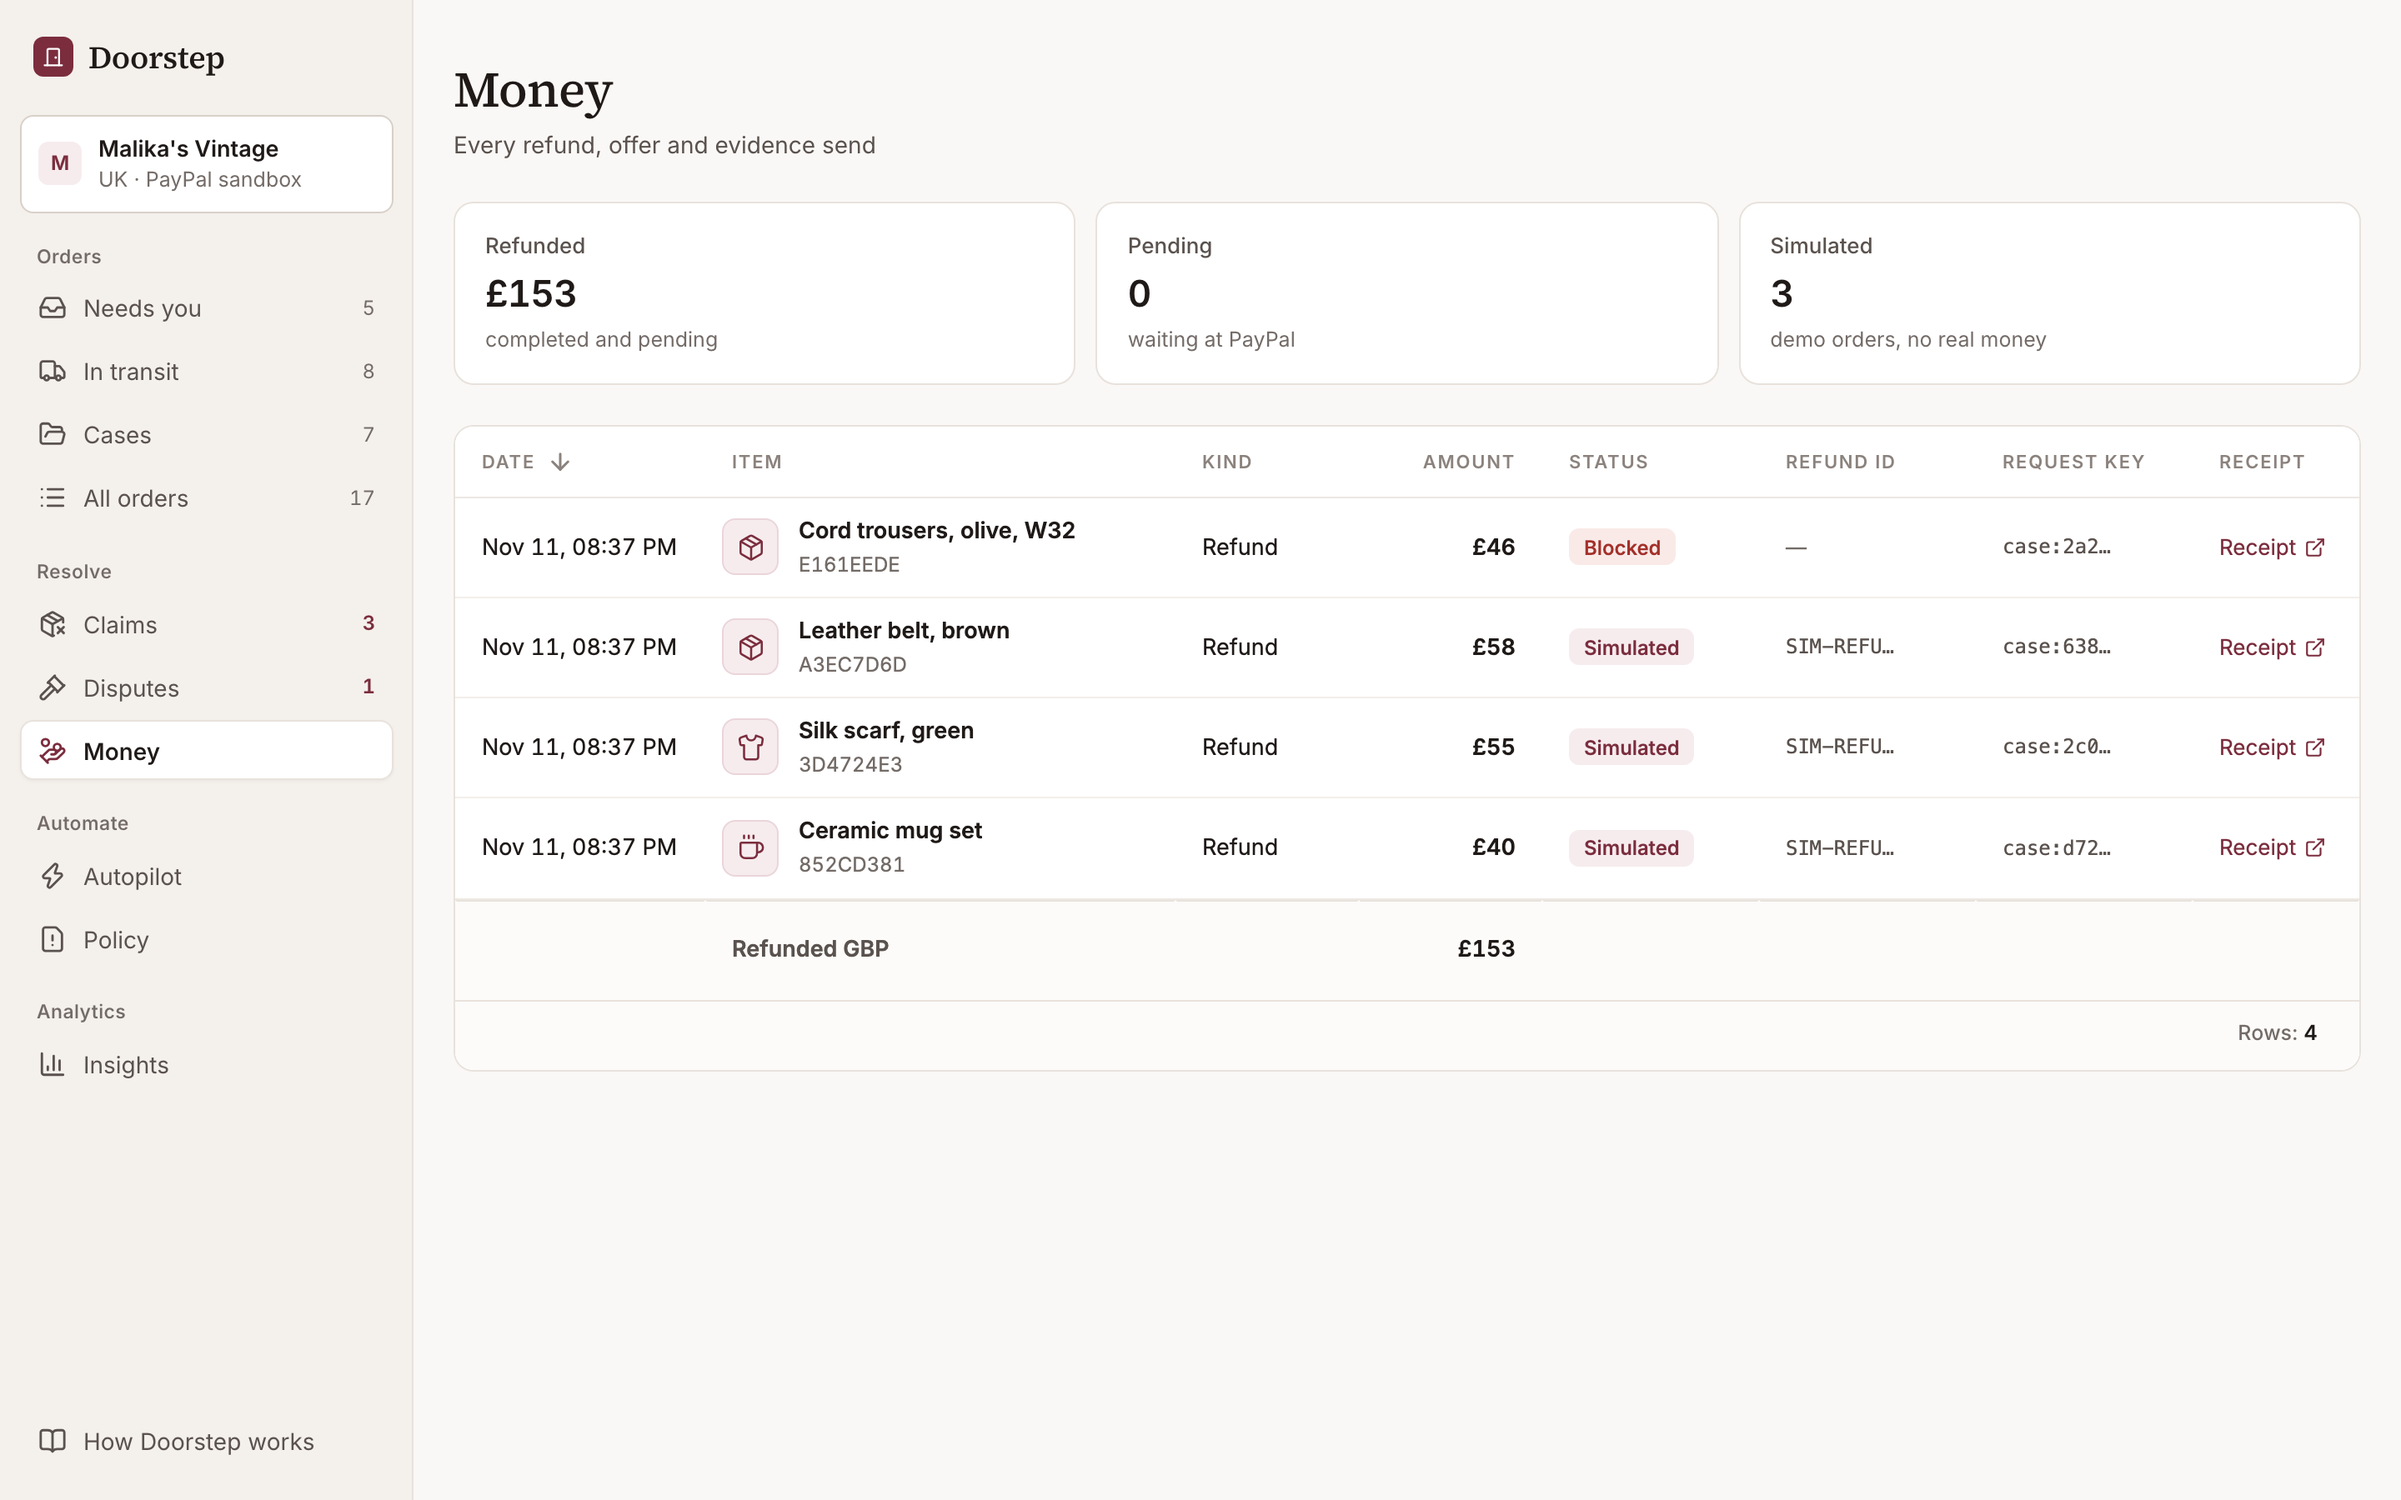
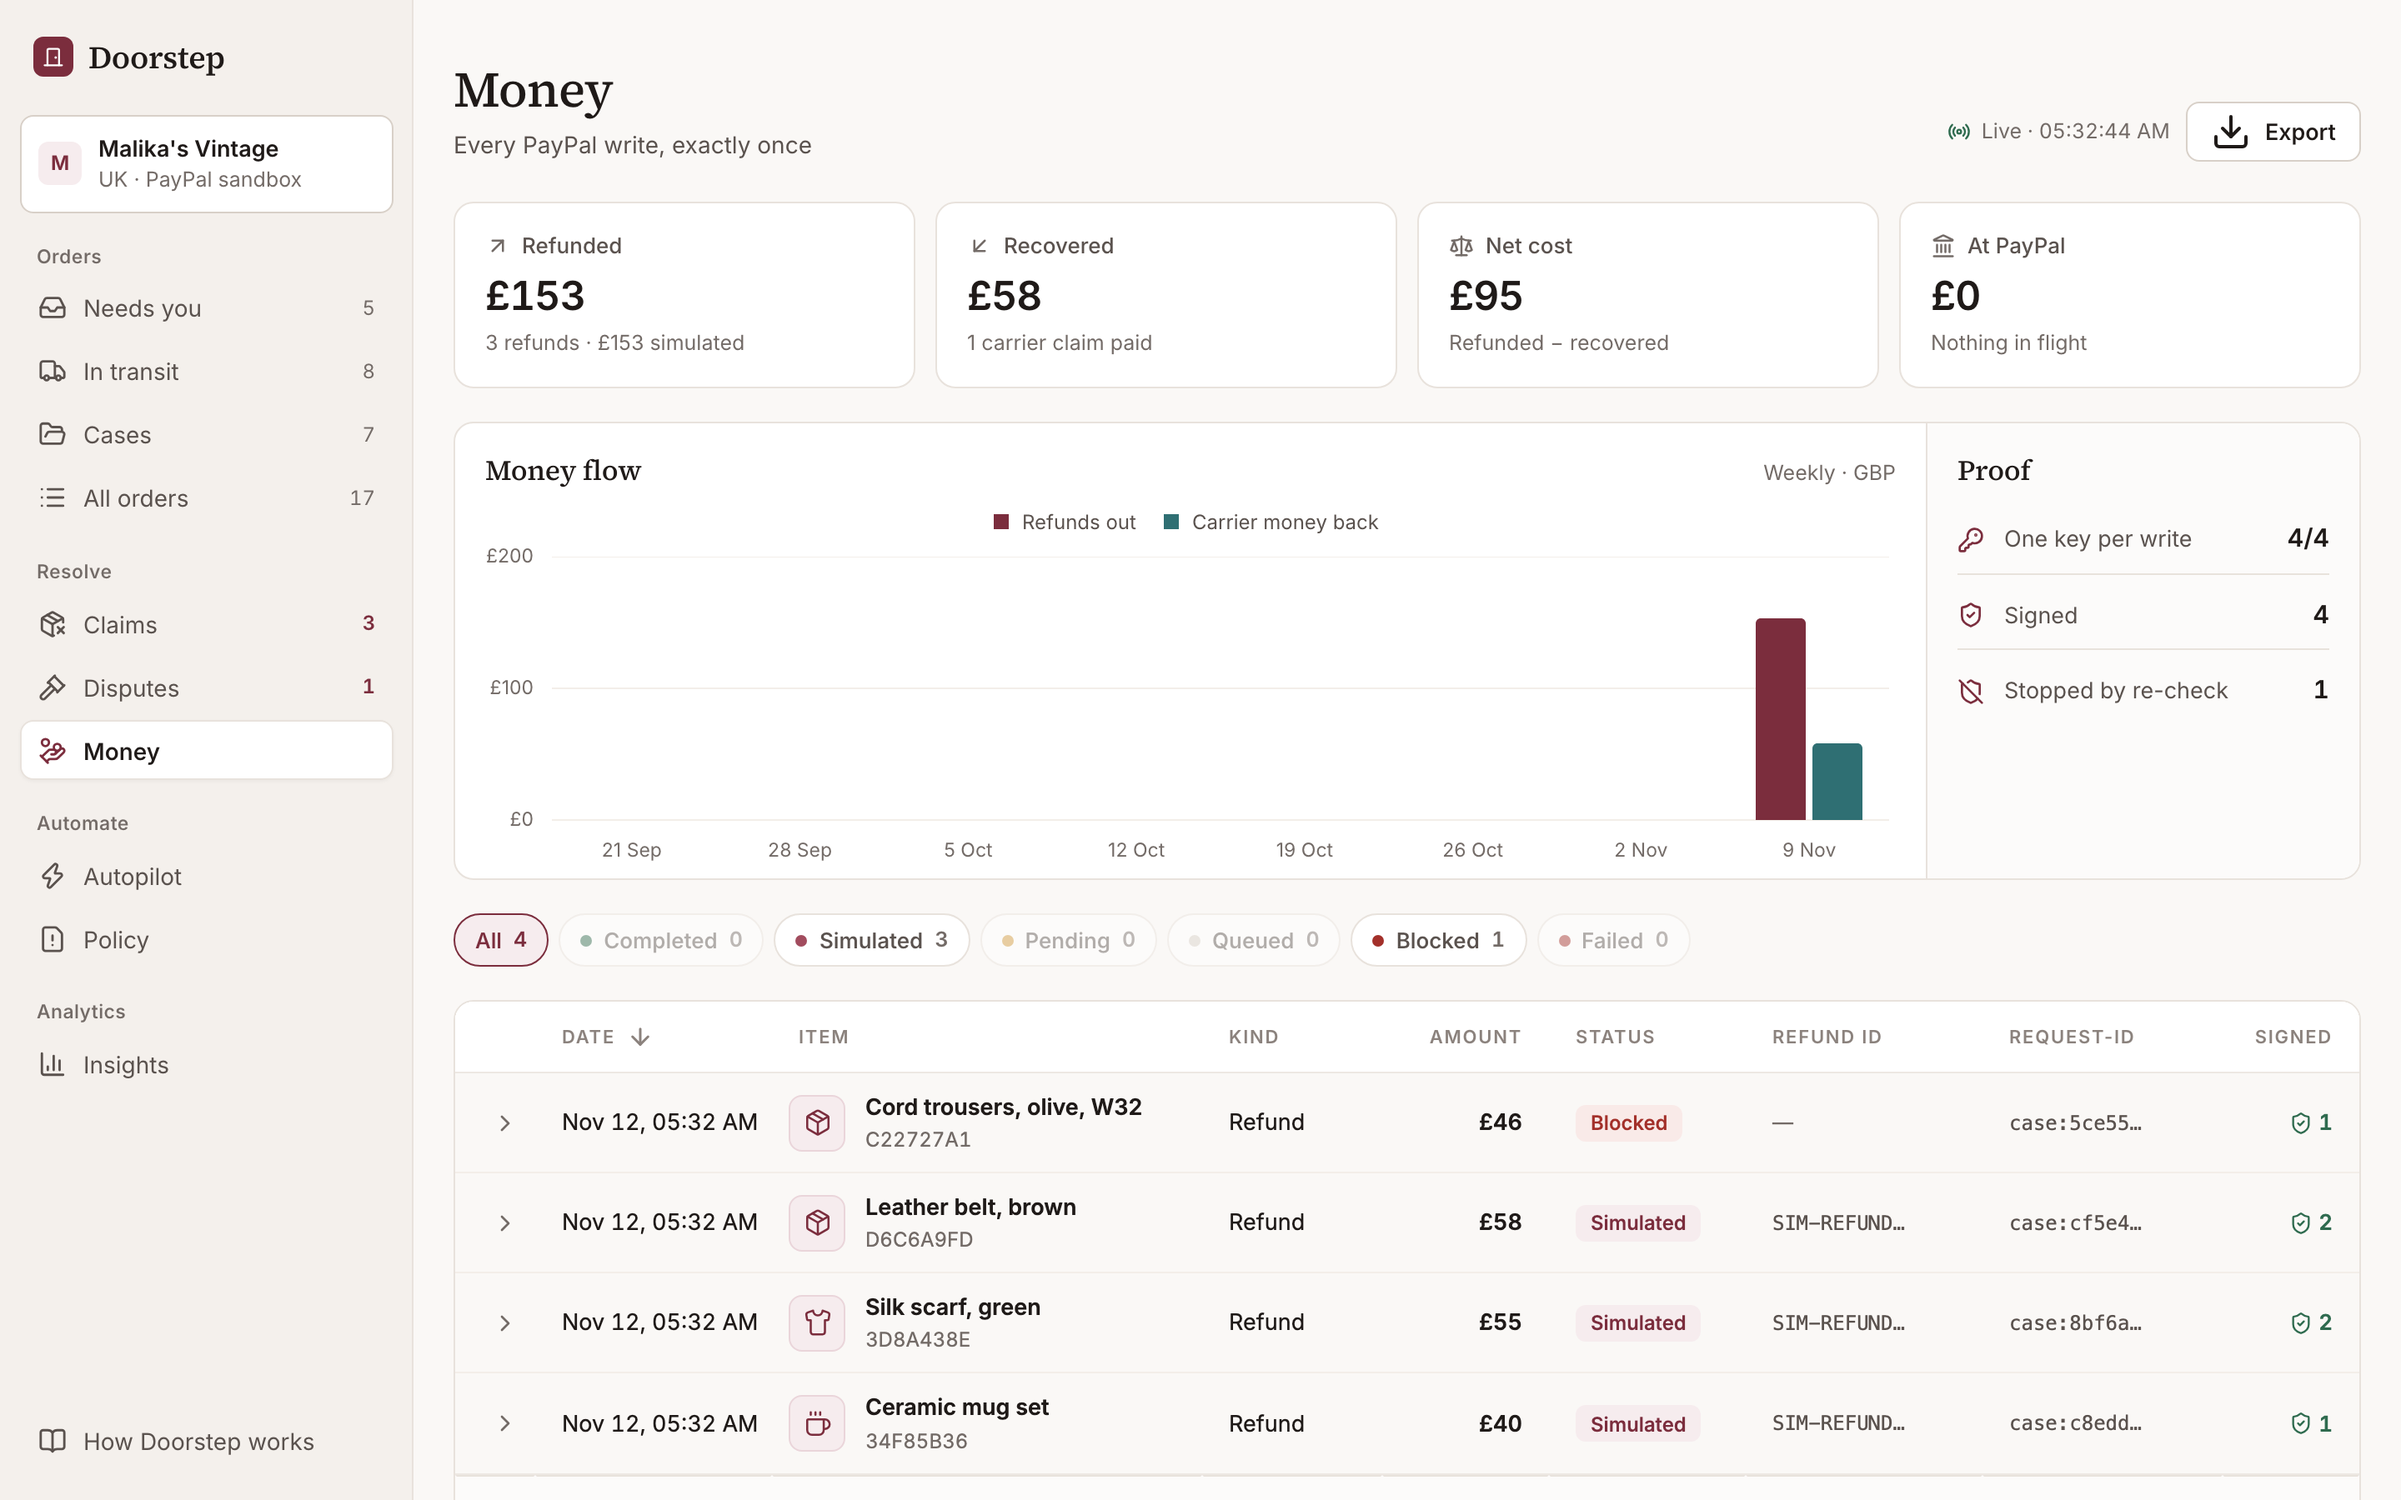
README: the Claims, Disputes, Money, Autopilot and Policy desks; screenshots of each

diff --git a/README.md b/README.md
@@ -247,22 +247,37 @@ Each row opens a detail panel without leaving the table. The grid also does a se
 
 Three ledgers read from Doorstep's own records, each with KPIs on top and an AG Grid table with one total per currency. A row opens its case.
 
-- **Claims:** every carrier claim, its status, the days left and what the carrier paid. Group by carrier.
-- **Disputes:** each PayPal dispute, the route Doorstep took, the Seller Protection verdict and the outcome.
-- **Money:** every refund, offer and evidence send, with PayPal's refund id, the `PayPal-Request-Id` and a link to the signed receipt. It updates live
-  while a refund is on its way.
+- **Claims:** open, recovered and due-soon totals; a claim clock of deadlines; filters by status and a grouping by carrier. Each claim opens its pack,
+  the carrier's terms, the deadline and its history, with the steps it allows: submitted, paid, refused or withdrawn.
+- **Disputes:** each PayPal dispute with its stage, the route Doorstep took, the five Seller Protection checks, the evidence sent and a timeline.
+- **Money:** every refund, offer and evidence send, with totals per currency and a weekly chart. Each one opens its steps from approval to PayPal's
+  answer, the five live checks run just before sending, the `PayPal-Request-Id`, and its signed receipt, which is verified in the browser. It updates
+  live while a refund is on its way, and exports to Excel.
+- **Autopilot:** the seller's rules as switches with their limits, what each one refunded, today's spend against the daily cap, and a replay of the last
+  90 days through the rule ("What if").
+- **Policy:** the shop's written policy checked against the law, with each conflict marked, the rule it breaks and suggested wording.
 
-The pages read; none of them can move money. **Autopilot** and **Policy** have pages of their own too: the seller's rules with what they spent, and the
-shop's written policy checked against the law.
+Their buttons call the same endpoints as the case drawer, so money still moves only through the policy.
 
 <details>
-<summary>Screenshot: Claims, with what the carriers paid back</summary>
-<img src="docs/img/screens/claims.png" alt="The Claims page: open claims, money recovered, days left, and a ledger grid with a total per currency" width="100%">
+<summary>Screenshot: Claims, with the claim clock and what the carriers paid back</summary>
+<img src="docs/img/screens/claims.png" alt="The Claims page: open, recovered and due-soon totals, a claim clock of deadlines, status filters and a grid with a total per currency" width="100%">
+</details>
+
+<details>
+<summary>Screenshot: Disputes, with the Seller Protection checks and timeline</summary>
+<img src="docs/img/screens/disputes.png" alt="The Disputes page: open disputes, amount in dispute, stage filters, and one dispute opened with its route, Seller Protection checks, evidence and timeline" width="100%">
 </details>
 
 <details>
 <summary>Screenshot: Money, every PayPal write with its idempotency key</summary>
-<img src="docs/img/screens/money.png" alt="The Money page: refunds with status, PayPal refund id, request key and receipt link" width="100%">
+<img src="docs/img/screens/money.png" alt="The Money page: totals per currency, a weekly money flow chart, a proof panel and a grid of refunds with status, refund id, request key and receipts" width="100%">
+</details>
+
+<details>
+<summary>Screenshot: Autopilot and Policy</summary>
+<img src="docs/img/screens/autopilot.png" alt="The Autopilot page: a rule for lost parcels switched on with its limits, today's spend against the daily cap, what it refunded, and a what-if replay" width="100%">
+<img src="docs/img/screens/policy.png" alt="The Policy page: one conflict with the Consumer Rights Act marked in the shop policy, with the finding and suggested wording" width="100%">
 </details>
 
 ### Buyer's page
